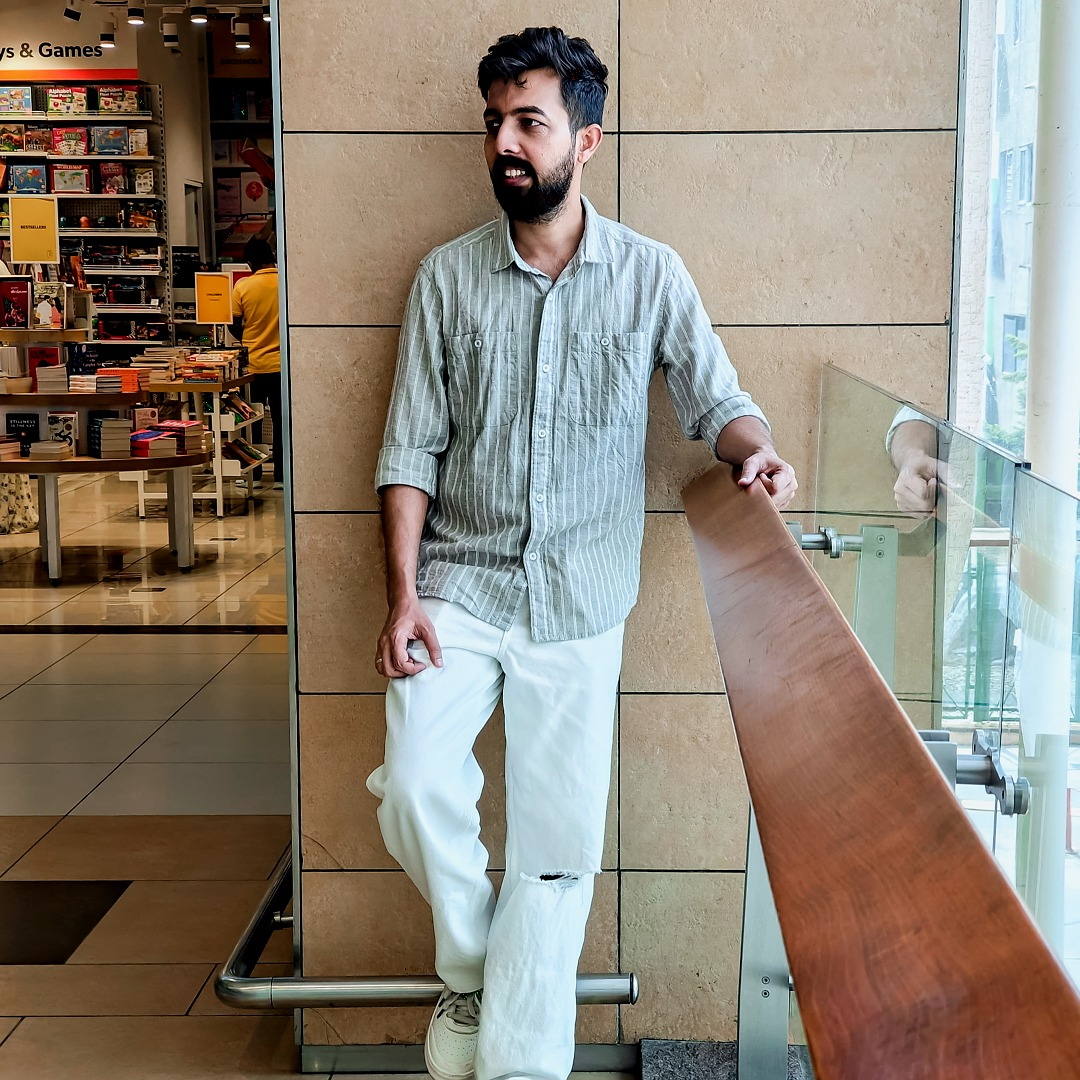
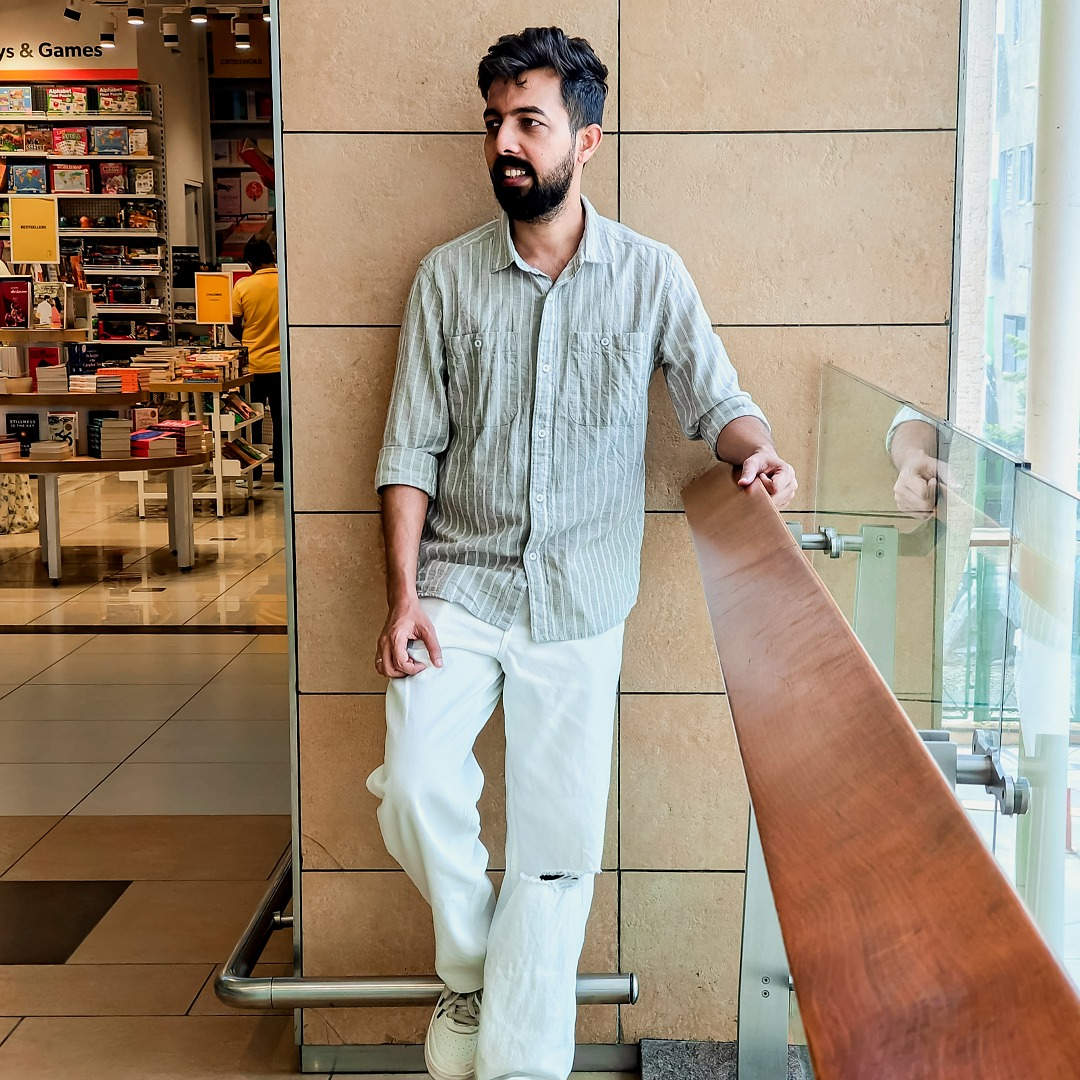
optimize: autoEnhance tuned to vivid — My-Pic auto now brightness 4 warmth 2 vs old -9 -5, matches vivid

diff --git a/js/enhance.js b/js/enhance.js
@@ -27,20 +27,21 @@ export function analyzeImage(ctx, w, h){
 export function autoEnhanceParams(ctx,w,h){
   const a=analyzeImage(ctx,w,h);
   const p={};
-  // brightness: bring avg to ~125
-  const target=118;
-  const bDiff=target - a.avgL;
-  p.brightness = Math.max(-12, Math.min(12, Math.round(bDiff*0.35)));
-  // contrast: slight if low variance
-  p.contrast = 6;
-  // highlights: recover if clipped
-  p.highlights = a.clipHiRatio>0.02 ? -18 : -6;
-  // shadows: lift if crushed
-  p.shadows = a.clipLoRatio>0.03 ? 18 : 10;
-  // warmth: neutralize cast slightly (strength 0.4)
-  p.warmth = Math.max(-8, Math.min(8, Math.round((-a.castR*0.18 + a.castB*0.12))));
-  // vibrance: subtle boost
-  p.vibrance = 12;
+  // Learn from vivid: My-Pic avgL 143 should get +2..+6 not -9, target higher for portraits
+  // Vivid brightness +6, contrast 8, highlights -18, shadows 18, warmth +4, vibrance 18
+  const target = 148; // vivid lifts ~+6, need brighter than 142
+  const bDiff = target - a.avgL;
+  p.brightness = Math.max(-8, Math.min(10, Math.round(bDiff*0.30 + 2)));
+
+  p.contrast = 8; // was 6, vivid 8 gives pop without crunch
+  // lower thresholds: My-Pic 1.8% clipHi should trigger strong recovery like vivid
+  p.highlights = a.clipHiRatio>0.01 ? -18 : (a.clipHiRatio>0.005 ? -12 : -6);
+  p.shadows = a.clipLoRatio>0.015 ? 18 : (a.clipLoRatio>0.008 ? 14 : 10);
+  // warmth: don't over-neutralize warm skin — reduce strength and add +2 warm bias
+  // My-Pic castR +14 warm, old gave -5 cool (wrong), vivid +4 warm (better)
+  const rawWarm = (-a.castR*0.08 + a.castB*0.06);
+  p.warmth = Math.max(-4, Math.min(8, Math.round(rawWarm + 4))); // vivid +4 warm for skin, old -5 was too cool
+  p.vibrance = 18; // vivid 18 won — user preferred, now auto matches vivid
   p.saturation = 0;
   return p;
 }
